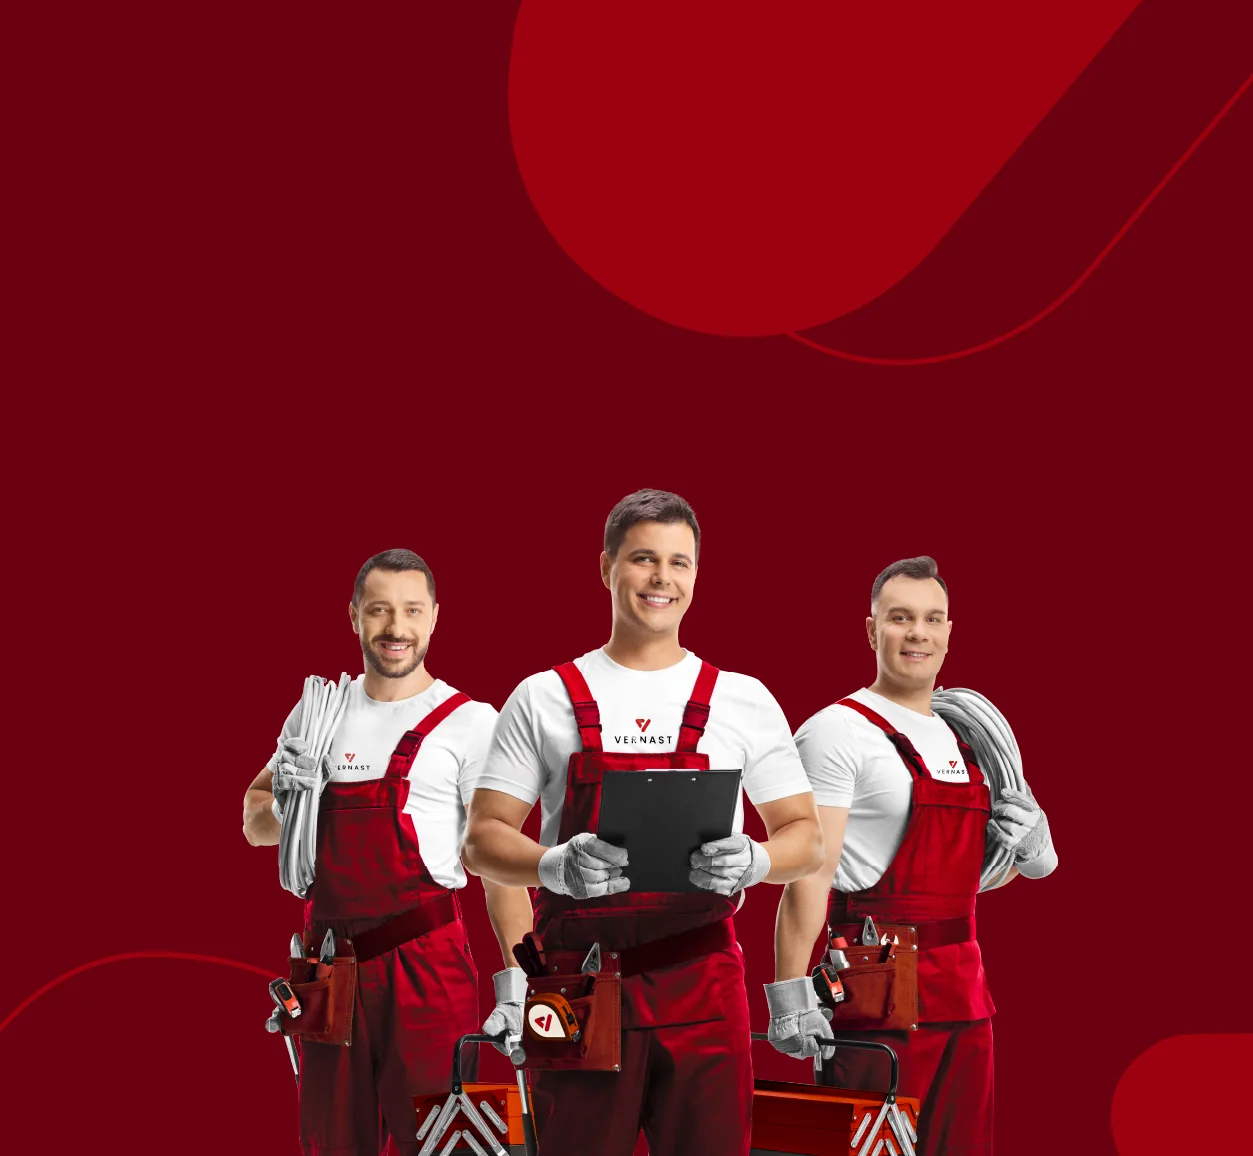
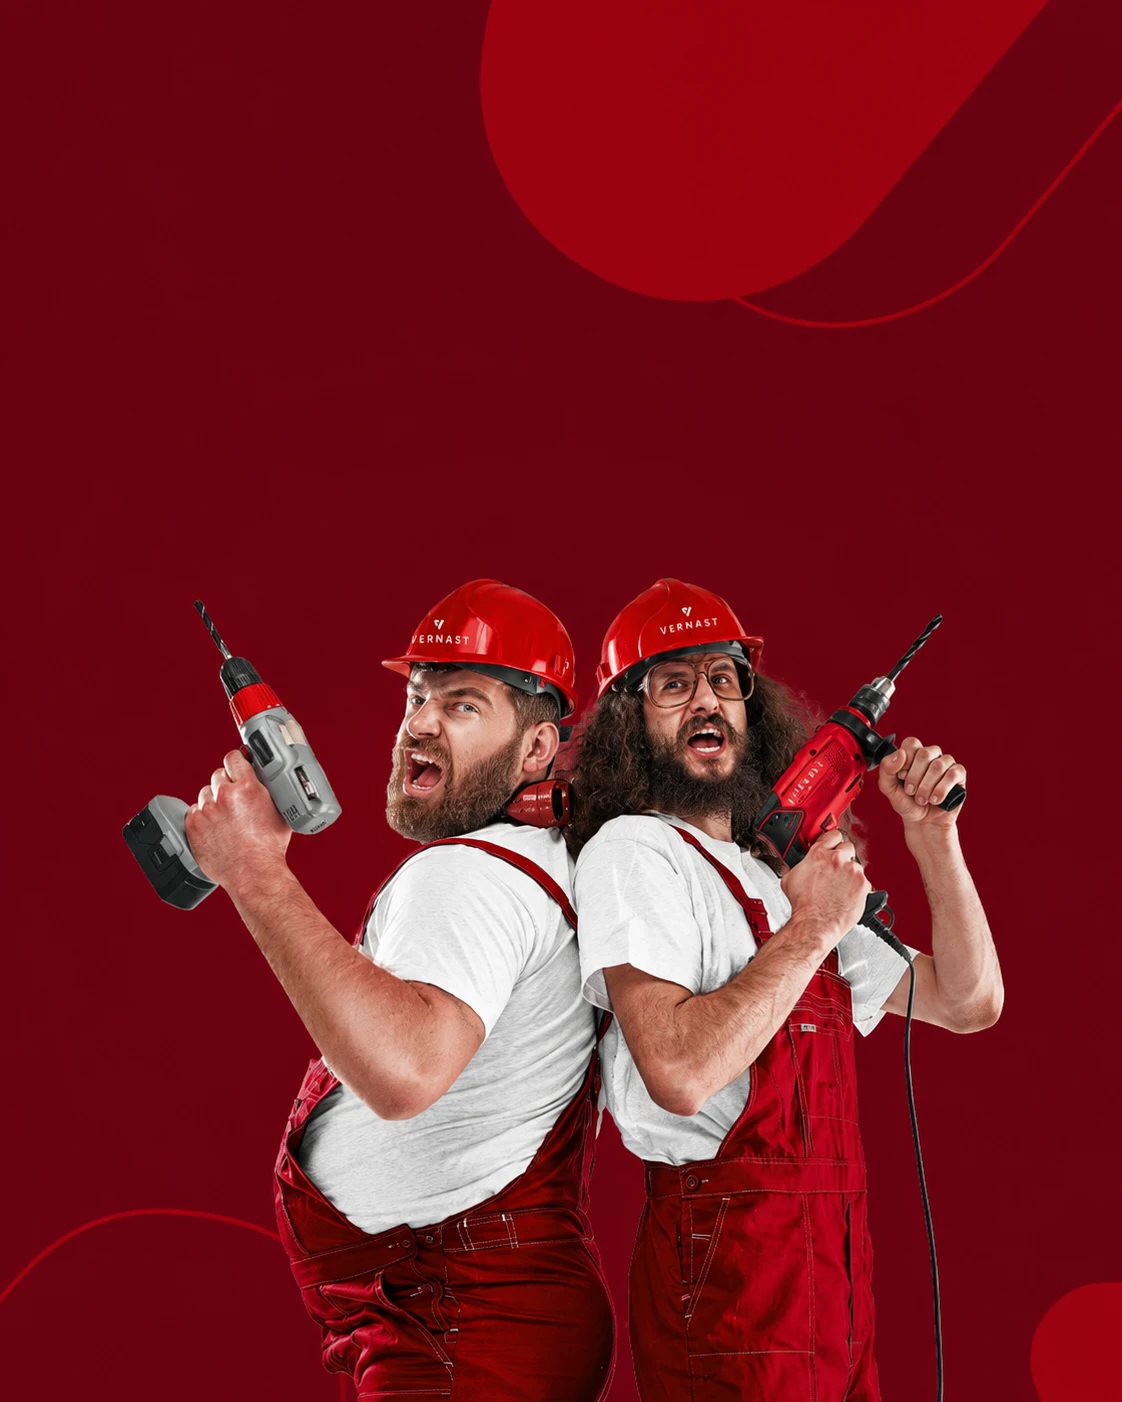
feat(header+overons): dubbele Alles-over-drogen-kolom uit mega + groep herschikt
Mega-menu Bouwdroging: kolom Alles over drogen verwijderd (dubbelde met het aparte top-menu-item); grids naar 3 kolommen, in V3Header en VHeader. Over Ons / Vernast Groep: Vochtbestrijding in het midden met eigen foto, foto's groter (150 naar 240px).

diff --git a/src/styles/verhuur.css b/src/styles/verhuur.css
@@ -113,7 +113,7 @@
 .vh-calc .nav-menu>.item.mega:hover{background:rgba(255,255,255,.14)}
 .vh-calc .mega-panel{position:absolute;top:calc(100% + 12px);left:0;width:100%;background:#fff;border-radius:20px;padding:26px 30px 0;box-shadow:0 30px 70px -22px rgba(0,0,0,.45);opacity:0;visibility:hidden;transform:translateY(8px);transition:opacity .18s,transform .18s,visibility .18s;z-index:95}
 .vh-calc .nav-menu>.item.mega:hover .mega-panel{opacity:1;visibility:visible;transform:none}
-.vh-calc .mega-cols{display:grid;grid-template-columns:repeat(4,1fr);gap:34px}
+.vh-calc .mega-cols{display:grid;grid-template-columns:repeat(3,1fr);gap:34px}
 .vh-calc .mcol .mlab{display:inline-block;background:var(--maroon);color:#fff;font-size:10.5px;font-weight:700;letter-spacing:.11em;text-transform:uppercase;padding:9px 15px;border-radius:9px;margin-bottom:16px}
 .vh-calc .mcol ul{list-style:none;margin:0 0 20px;padding:0;display:flex;flex-direction:column;gap:11px}
 .vh-calc .mcol ul:last-child{margin-bottom:0}
@@ -476,7 +476,7 @@
 .vh-pkg .nav-menu>.item.mega:hover{background:rgba(255,255,255,.14)}
 .vh-pkg .mega-panel{position:absolute;top:calc(100% + 12px);left:0;width:100%;background:#fff;border-radius:20px;padding:26px 30px 0;box-shadow:0 30px 70px -22px rgba(0,0,0,.45);opacity:0;visibility:hidden;transform:translateY(8px);transition:opacity .18s,transform .18s,visibility .18s;z-index:95}
 .vh-pkg .nav-menu>.item.mega:hover .mega-panel{opacity:1;visibility:visible;transform:none}
-.vh-pkg .mega-cols{display:grid;grid-template-columns:repeat(4,1fr);gap:34px}
+.vh-pkg .mega-cols{display:grid;grid-template-columns:repeat(3,1fr);gap:34px}
 .vh-pkg .mcol .mlab{display:inline-block;background:var(--maroon);color:#fff;font-size:10.5px;font-weight:700;letter-spacing:.11em;text-transform:uppercase;padding:9px 15px;border-radius:9px;margin-bottom:16px}
 .vh-pkg .mcol ul{list-style:none;margin:0 0 20px;padding:0;display:flex;flex-direction:column;gap:11px}
 .vh-pkg .mcol ul:last-child{margin-bottom:0}
@@ -831,7 +831,7 @@
 .vh-book .nav-menu>.item.mega:hover{background:rgba(255,255,255,.14)}
 .vh-book .mega-panel{position:absolute;top:calc(100% + 12px);left:0;width:100%;background:#fff;border-radius:20px;padding:26px 30px 0;box-shadow:0 30px 70px -22px rgba(0,0,0,.45);opacity:0;visibility:hidden;transform:translateY(8px);transition:opacity .18s,transform .18s,visibility .18s;z-index:95}
 .vh-book .nav-menu>.item.mega:hover .mega-panel{opacity:1;visibility:visible;transform:none}
-.vh-book .mega-cols{display:grid;grid-template-columns:repeat(4,1fr);gap:34px}
+.vh-book .mega-cols{display:grid;grid-template-columns:repeat(3,1fr);gap:34px}
 .vh-book .mcol .mlab{display:inline-block;background:var(--maroon);color:#fff;font-size:10.5px;font-weight:700;letter-spacing:.11em;text-transform:uppercase;padding:9px 15px;border-radius:9px;margin-bottom:16px}
 .vh-book .mcol ul{list-style:none;margin:0 0 20px;padding:0;display:flex;flex-direction:column;gap:11px}
 .vh-book .mcol ul:last-child{margin-bottom:0}
@@ -1282,7 +1282,7 @@
 .vh-prod .nav-menu>.item.mega:hover{background:rgba(255,255,255,.14)}
 .vh-prod .mega-panel{position:absolute;top:calc(100% + 12px);left:0;width:100%;background:#fff;border-radius:20px;padding:26px 30px 0;box-shadow:0 30px 70px -22px rgba(0,0,0,.45);opacity:0;visibility:hidden;transform:translateY(8px);transition:opacity .18s,transform .18s,visibility .18s;z-index:95}
 .vh-prod .nav-menu>.item.mega:hover .mega-panel{opacity:1;visibility:visible;transform:none}
-.vh-prod .mega-cols{display:grid;grid-template-columns:repeat(4,1fr);gap:34px}
+.vh-prod .mega-cols{display:grid;grid-template-columns:repeat(3,1fr);gap:34px}
 .vh-prod .mcol .mlab{display:inline-block;background:var(--maroon);color:#fff;font-size:10.5px;font-weight:700;letter-spacing:.11em;text-transform:uppercase;padding:9px 15px;border-radius:9px;margin-bottom:16px}
 .vh-prod .mcol ul{list-style:none;margin:0 0 20px;padding:0;display:flex;flex-direction:column;gap:11px}
 .vh-prod .mcol ul:last-child{margin-bottom:0}
@@ -1706,7 +1706,7 @@
 .vh-pick .nav-menu>.item.mega:hover{background:rgba(255,255,255,.14)}
 .vh-pick .mega-panel{position:absolute;top:calc(100% + 12px);left:0;width:100%;background:#fff;border-radius:20px;padding:26px 30px 0;box-shadow:0 30px 70px -22px rgba(0,0,0,.45);opacity:0;visibility:hidden;transform:translateY(8px);transition:opacity .18s,transform .18s,visibility .18s;z-index:95}
 .vh-pick .nav-menu>.item.mega:hover .mega-panel{opacity:1;visibility:visible;transform:none}
-.vh-pick .mega-cols{display:grid;grid-template-columns:repeat(4,1fr);gap:34px}
+.vh-pick .mega-cols{display:grid;grid-template-columns:repeat(3,1fr);gap:34px}
 .vh-pick .mcol .mlab{display:inline-block;background:var(--maroon);color:#fff;font-size:10.5px;font-weight:700;letter-spacing:.11em;text-transform:uppercase;padding:9px 15px;border-radius:9px;margin-bottom:16px}
 .vh-pick .mcol ul{list-style:none;margin:0 0 20px;padding:0;display:flex;flex-direction:column;gap:11px}
 .vh-pick .mcol ul:last-child{margin-bottom:0}

diff --git a/src/pages/OverOnsPage.tsx b/src/pages/OverOnsPage.tsx
@@ -288,20 +288,20 @@ const OverOnsPage = () => {
             <p className="lede">Vernast BouwDroging staat niet alleen. Ziet onze technicus op uw werf geen bouwvocht maar een vochtprobleem? Dan schuift het juiste team meteen mee aan tafel, binnen dezelfde groep.</p>
           </div>
           <div className="gr-grid">
-            <a className="gr" href="https://www.vernast-vochtbestrijding.be/">
-              <div className="gphoto"><img src="/vernast/groep-vochtbestrijding.webp" alt="Team Vernast Vochtbestrijding" style={{ objectFit: "cover" }} /></div>
-              <span className="gi"><svg width="20" height="20" viewBox="0 0 24 24" fill="none" stroke="currentColor" strokeWidth="1.8" strokeLinecap="round" strokeLinejoin="round"><path d="M12 2s7 8 7 13a7 7 0 0 1-14 0c0-5 7-13 7-13z" /></svg></span>
-              <h3>Vernast Vochtbestrijding</h3>
-              <p>Opstijgend vocht, kelderdichting en gevelbehandeling. Wanneer de oorzaak dieper zit dan bouwvocht, pakken we ze bij de bron aan.</p>
-              <span className="gl">Naar vochtbestrijding →</span>
-            </a>
-            <Link className="gr hot" to="/">
+            <Link className="gr" to="/">
               <div className="gphoto light"><img src="/vernast/lineup-dryers.webp" alt="Vernast eco-bouwdrogers" /></div>
               <span className="gi"><svg width="20" height="20" viewBox="0 0 24 24" fill="none" stroke="currentColor" strokeWidth="1.8" strokeLinecap="round" strokeLinejoin="round"><path d="M12 3v3" /><path d="M18.4 5.6l-2.1 2.1" /><path d="M21 12h-3" /><path d="M12 18a6 6 0 1 0 0-12 6 6 0 0 0 0 12z" /></svg></span>
               <h3>Vernast BouwDroging</h3>
               <p>Waar u nu bent: berekende droogpakketten met garantie, losse toestellen en volledig digitale boeking en opvolging.</p>
               <span className="gl">Bereken uw pakket →</span>
             </Link>
+            <a className="gr hot" href="https://www.vernast-vochtbestrijding.be/">
+              <div className="gphoto"><img src="/vernast/groep-vochtbestrijding.webp" alt="Vernast Vochtbestrijding" style={{ objectFit: "cover" }} /></div>
+              <span className="gi"><svg width="20" height="20" viewBox="0 0 24 24" fill="none" stroke="currentColor" strokeWidth="1.8" strokeLinecap="round" strokeLinejoin="round"><path d="M12 2s7 8 7 13a7 7 0 0 1-14 0c0-5 7-13 7-13z" /></svg></span>
+              <h3>Vernast Vochtbestrijding</h3>
+              <p>Opstijgend vocht, kelderdichting en gevelbehandeling. Wanneer de oorzaak dieper zit dan bouwvocht, pakken we ze bij de bron aan.</p>
+              <span className="gl">Naar vochtbestrijding →</span>
+            </a>
             <a className="gr" href="https://www.vernast-schilderwerken.be/">
               <div className="gphoto"><img src="/vernast/groep-schilderwerken.webp" alt="Team Vernast Schilderwerken" style={{ objectFit: "cover" }} /></div>
               <span className="gi"><svg width="20" height="20" viewBox="0 0 24 24" fill="none" stroke="currentColor" strokeWidth="1.8" strokeLinecap="round" strokeLinejoin="round"><path d="M19 3H5a2 2 0 0 0-2 2v4a2 2 0 0 0 2 2h14a2 2 0 0 0 2-2V5a2 2 0 0 0-2-2z" /><path d="M12 11v4a2 2 0 0 1-2 2H8a2 2 0 0 0-2 2v2" /></svg></span>

diff --git a/src/styles/over-ons.css b/src/styles/over-ons.css
@@ -93,7 +93,7 @@
 .ov-page .nav-menu>.item.mega:hover{background:rgba(255,255,255,.14)}
 .ov-page .mega-panel{position:absolute;top:calc(100% + 12px);left:0;width:100%;background:#fff;border-radius:20px;padding:26px 30px 0;box-shadow:0 30px 70px -22px rgba(0,0,0,.45);opacity:0;visibility:hidden;transform:translateY(8px);transition:opacity .18s,transform .18s,visibility .18s;z-index:95}
 .ov-page .nav-menu>.item.mega:hover .mega-panel{opacity:1;visibility:visible;transform:none}
-.ov-page .mega-cols{display:grid;grid-template-columns:repeat(4,1fr);gap:34px}
+.ov-page .mega-cols{display:grid;grid-template-columns:repeat(3,1fr);gap:34px}
 .ov-page .mcol .mlab{display:inline-block;background:var(--maroon);color:#fff;font-size:10.5px;font-weight:700;letter-spacing:.11em;text-transform:uppercase;padding:9px 15px;border-radius:9px;margin-bottom:16px}
 .ov-page .mcol ul{list-style:none;margin:0 0 20px;padding:0;display:flex;flex-direction:column;gap:11px}
 .ov-page .mcol ul:last-child{margin-bottom:0}
@@ -271,7 +271,7 @@
 .ov-page .gr-grid{display:grid;grid-template-columns:repeat(3,1fr);gap:16px;margin-top:40px}
 .ov-page .gr{background:#fff;border:1px solid var(--line);border-radius:18px;padding:28px 26px;display:flex;flex-direction:column;gap:11px;transition:transform .2s,box-shadow .2s}
 .ov-page .gr:hover{transform:translateY(-4px);box-shadow:0 24px 46px -26px rgba(0,0,0,.28);color:inherit}
-.ov-page .gr .gphoto{height:150px;border-radius:12px;background:var(--bg-alt);overflow:hidden;display:flex;align-items:center;justify-content:center;margin-bottom:6px}
+.ov-page .gr .gphoto{height:240px;border-radius:12px;background:var(--bg-alt);overflow:hidden;display:flex;align-items:center;justify-content:center;margin-bottom:6px}
 .ov-page .gr .gphoto img{width:100%;height:100%;object-fit:contain}
 .ov-page .gr .gphoto.light{background:#F4F4F4}
 .ov-page .gr .gphoto.light img{padding:14px}

diff --git a/src/components/home-v3/V3Header.tsx b/src/components/home-v3/V3Header.tsx
@@ -168,26 +168,6 @@ const V3Header = ({ lightAfter = 560 }: V3HeaderProps) => {
                       </li>
                     </ul>
                   </div>
-                  <div className="mcol">
-                    <span className="mlab">Alles over drogen</span>
-                    <ul>
-                      <li>
-                        <Link to="/hoe-drogen-werkt">Hoe drogen werkt</Link>
-                      </li>
-                      <li>
-                        <Link to="/waarom-bouwdroging">Waarom bouwdroging</Link>
-                      </li>
-                      <li>
-                        <Link to="/drooggarantie">Drooggarantie</Link>
-                      </li>
-                      <li>
-                        <Link to="/realisaties">Toepassingen</Link>
-                      </li>
-                      <li>
-                        <a href="/#faq">Veelgestelde vragen</a>
-                      </li>
-                    </ul>
-                  </div>
                 </div>
                 <div className="mega-foot">
                   <div className="mft">

diff --git a/src/components/verhuur/VHeader.tsx b/src/components/verhuur/VHeader.tsx
@@ -137,26 +137,6 @@ const VHeader = () => {
                       </li>
                     </ul>
                   </div>
-                  <div className="mcol">
-                    <span className="mlab">Alles over drogen</span>
-                    <ul>
-                      <li>
-                        <Link to="/#techniek">Hoe drogen werkt</Link>
-                      </li>
-                      <li>
-                        <Link to="/#voordelen">Waarom bouwdroging</Link>
-                      </li>
-                      <li>
-                        <Link to="/#prijzen">Prijzen &amp; voorwaarden</Link>
-                      </li>
-                      <li>
-                        <Link to="/#toepassingen">Toepassingen</Link>
-                      </li>
-                      <li>
-                        <Link to="/#faq">Veelgestelde vragen</Link>
-                      </li>
-                    </ul>
-                  </div>
                 </div>
                 <div className="mega-foot">
                   <div className="mft">

diff --git a/src/styles/contact.css b/src/styles/contact.css
@@ -96,7 +96,7 @@
 .ct-page .nav-menu>.item.mega:hover{background:rgba(255,255,255,.14)}
 .ct-page .mega-panel{position:absolute;top:calc(100% + 12px);left:0;width:100%;background:#fff;border-radius:20px;padding:26px 30px 0;box-shadow:0 30px 70px -22px rgba(0,0,0,.45);opacity:0;visibility:hidden;transform:translateY(8px);transition:opacity .18s,transform .18s,visibility .18s;z-index:95}
 .ct-page .nav-menu>.item.mega:hover .mega-panel{opacity:1;visibility:visible;transform:none}
-.ct-page .mega-cols{display:grid;grid-template-columns:repeat(4,1fr);gap:34px}
+.ct-page .mega-cols{display:grid;grid-template-columns:repeat(3,1fr);gap:34px}
 .ct-page .mcol .mlab{display:inline-block;background:var(--maroon);color:#fff;font-size:10.5px;font-weight:700;letter-spacing:.11em;text-transform:uppercase;padding:9px 15px;border-radius:9px;margin-bottom:16px}
 .ct-page .mcol ul{list-style:none;margin:0 0 20px;padding:0;display:flex;flex-direction:column;gap:11px}
 .ct-page .mcol ul a{font-size:14.5px;color:var(--txt);transition:color .14s,padding-left .14s;display:block}

diff --git a/src/styles/levering.css b/src/styles/levering.css
@@ -89,7 +89,7 @@
 .lv-page .nav-menu>.item.mega:hover{background:rgba(255,255,255,.14)}
 .lv-page .mega-panel{position:absolute;top:calc(100% + 12px);left:0;width:100%;background:#fff;border-radius:20px;padding:26px 30px 0;box-shadow:0 30px 70px -22px rgba(0,0,0,.45);opacity:0;visibility:hidden;transform:translateY(8px);transition:opacity .18s,transform .18s,visibility .18s;z-index:95}
 .lv-page .nav-menu>.item.mega:hover .mega-panel{opacity:1;visibility:visible;transform:none}
-.lv-page .mega-cols{display:grid;grid-template-columns:repeat(4,1fr);gap:34px}
+.lv-page .mega-cols{display:grid;grid-template-columns:repeat(3,1fr);gap:34px}
 .lv-page .mcol .mlab{display:inline-block;background:var(--maroon);color:#fff;font-size:10.5px;font-weight:700;letter-spacing:.11em;text-transform:uppercase;padding:9px 15px;border-radius:9px;margin-bottom:16px}
 .lv-page .mcol ul{list-style:none;margin:0 0 20px;padding:0;display:flex;flex-direction:column;gap:11px}
 .lv-page .mcol ul a{font-size:14.5px;color:var(--txt);transition:color .14s,padding-left .14s;display:block}
